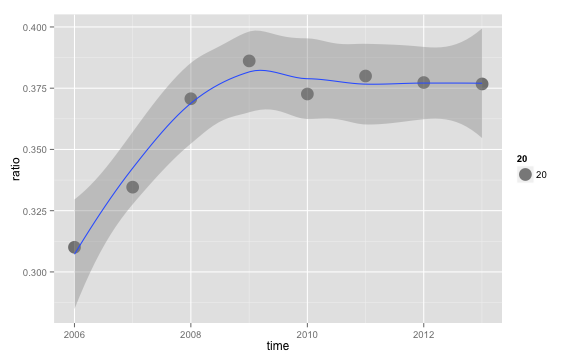
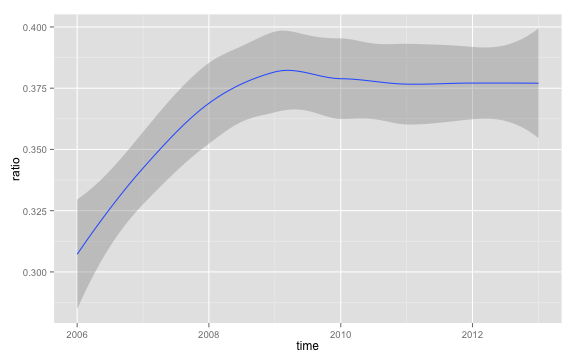
publishing deck

diff --git a/index.html b/index.html
@@ -1013,13 +1013,16 @@ t2 = filter(t1,is.na(mortage_total_bal)==FALSE)
 </div>    
 <div style='float:right;width:78%'>
  <pre><code class="r">library(ggplot2)
-ggplot(see1, aes(time, ratio)) +
-  geom_point(aes(size = 20), alpha = 1/2) +
-  geom_smooth(method=&quot;loess&quot;) +
-  scale_size_area()
+ggplot(see1, aes(time, ratio)) +geom_smooth(method=&quot;loess&quot;) +scale_size_area()
 </code></pre>
 
 <p><img src="assets/fig/plotChunk.png" alt="plot of chunk plotChunk"> </p>
+
+<pre><code class="r">  +geom_point(aes(size = 20), alpha = 1/2) 
+</code></pre>
+
+<pre><code>## Error: invalid argument to unary operator
+</code></pre>
 
 </div>
   </article>

diff --git a/index.md b/index.md
@@ -672,13 +672,18 @@ see1 = filter(mutate(t2,ratio =mortage_total_bal/GDP),is.na(ratio)==FALSE)
 
 ```r
 library(ggplot2)
-ggplot(see1, aes(time, ratio)) +
-  geom_point(aes(size = 20), alpha = 1/2) +
-  geom_smooth(method="loess") +
-  scale_size_area()
+ggplot(see1, aes(time, ratio)) +geom_smooth(method="loess") +scale_size_area()
 ```
 
 ![plot of chunk plotChunk](assets/fig/plotChunk.png) 
+
+```r
+  +geom_point(aes(size = 20), alpha = 1/2) 
+```
+
+```
+## Error: invalid argument to unary operator
+```
 
 
 
